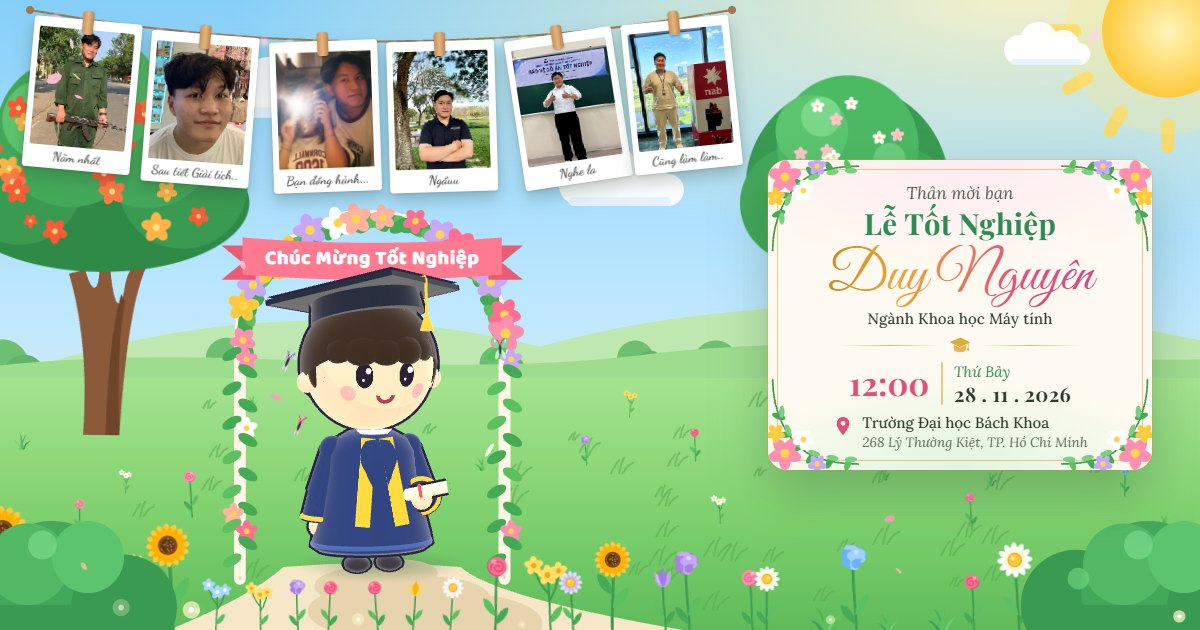
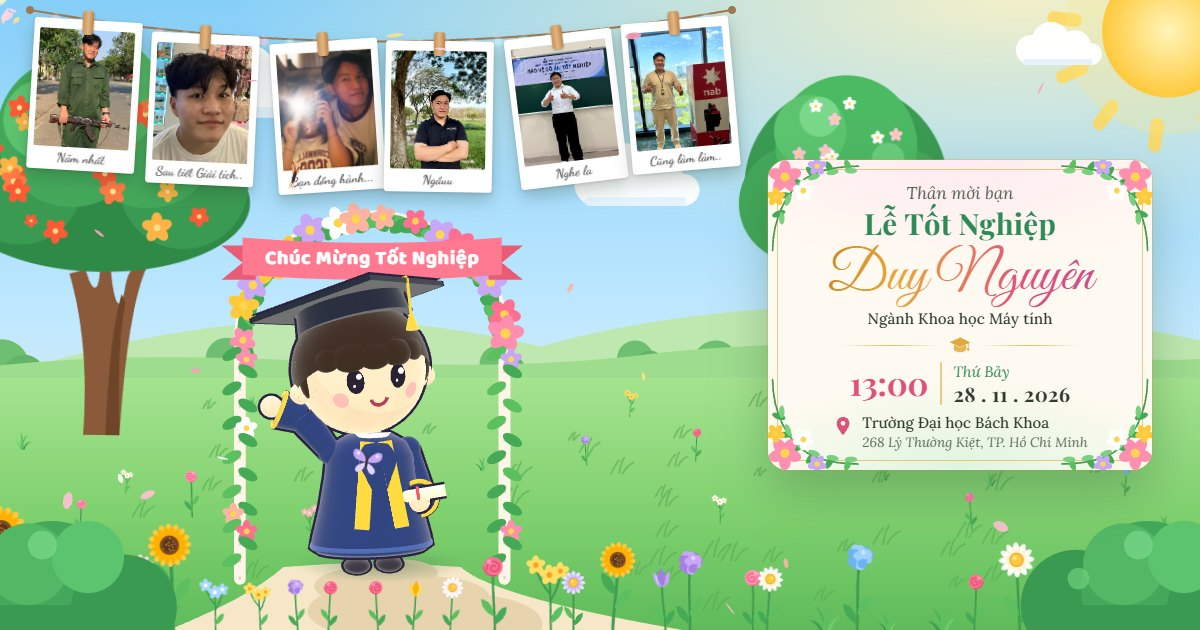
fix: align graduation details and night skin tone

diff --git a/src/character/chibi.ts b/src/character/chibi.ts
@@ -18,7 +18,6 @@ export interface Rig {
   setPhase(p: JumpPhase): void;
   /** hướng nhìn, -1..1 theo mỗi trục (0,0 = nhìn thẳng) */
   setLook(x: number, y: number): void;
-  setSkinTone(night: boolean): void;
   update(dt: number, t: number): void;
   /** vươn vai → cầm mũ → nằm nghiêng. true nếu nằm xong, false nếu bị ngắt giữa chừng */
   lieDown(): Promise<boolean>;
@@ -155,7 +154,6 @@ const REACH: Partial<Pose> = { lSz: 2.55, lSx: -0.35, lEx: -0.25, lEz: -0.55, hx
 
 export function buildChibi(): Rig {
   const root = new THREE.Group();
-  const skinMaterial = toon(C.skin);
   // root > lieGroup (nằm nghiêng) > body (co giãn, nghiêng nhẹ)
   const lieGroup = new THREE.Group();
   const body = new THREE.Group();
@@ -528,9 +526,6 @@ export function buildChibi(): Rig {
 
   return {
     object: root,
-    setSkinTone(night) {
-      skinMaterial.color.setHex(night ? 0xffe9db : C.skin);
-    },
     setAction(a) {
       if (a === 'cheer' && action !== 'cheer' && clock - lastCapToss > 3) {
         capT = 0;

diff --git a/src/main.ts b/src/main.ts
@@ -205,7 +205,6 @@ async function swapTo2D() {
   const old = actor;
   const a = await make2D();
   a.place({ ...old.anchor });
-  a.setMood?.(mood);
   a.setVisible(true);
   a.setAction('idle');
   actor = a;
@@ -414,7 +413,7 @@ let actorTapAt = 0;
 let actorTapped = false;
 
 // ---------- cảnh cuối: ~6 giây không ai bấm → nhân vật vươn vai, cầm mũ, nằm nghỉ ----------
-const REST_AFTER = 6000;
+const REST_AFTER = 8000;
 let restTimer = 0;
 /** đang ngồi dậy → các lần bấm dồn chỉ thả tim, không chồng động tác */
 let waking = false;

diff --git a/src/character/actor2d.ts b/src/character/actor2d.ts
@@ -57,11 +57,6 @@ export class Actor2D extends BaseActor {
     this.root.classList.toggle('speaking', on);
   }
 
-  setMood(m: 'day' | 'sunset' | 'night') {
-    const tone = m === 'night' ? '#ffe9db' : '#ffdcc4';
-    this.root.querySelectorAll<SVGElement>('.a2-skin').forEach((part) => part.setAttribute('fill', tone));
-  }
-
   protected setPhase(p: JumpPhase) {
     if (p === 'crouch') gsap.to(this.inner, { scaleY: 0.82, scaleX: 1.1, duration: 0.15, transformOrigin: '50% 100%' });
     else if (p === 'air') gsap.to(this.inner, { scaleY: 1.08, scaleX: 0.94, duration: 0.15 });

diff --git a/src/config.ts b/src/config.ts
@@ -19,7 +19,7 @@ export const config = {
   event: {
     title: 'Lễ Tốt Nghiệp',
     /** Giờ Việt Nam (+07:00) */
-    start: '2026-11-28T12:00:00+07:00',
+    start: '2026-11-28T13:00:00+07:00',
     /** TODO: xác nhận địa điểm & địa chỉ chính xác */
     venue: 'Trường Đại học Bách Khoa',
     address: '268 Lý Thường Kiệt, TP. Hồ Chí Minh',

diff --git a/src/character/stage3d.ts b/src/character/stage3d.ts
@@ -137,7 +137,6 @@ export class Stage3D extends BaseActor {
     this.key.intensity = L.keyI;
     this.fill.color.setHex(L.fill);
     this.fill.intensity = L.fillI;
-    this.rig?.setSkinTone(m === 'night');
   }
 
   /** vẽ 1 khung rồi chép ngay ra canvas 2D (đọc WebGL ngay sau khi vẽ, trong cùng 1 tác vụ) */
